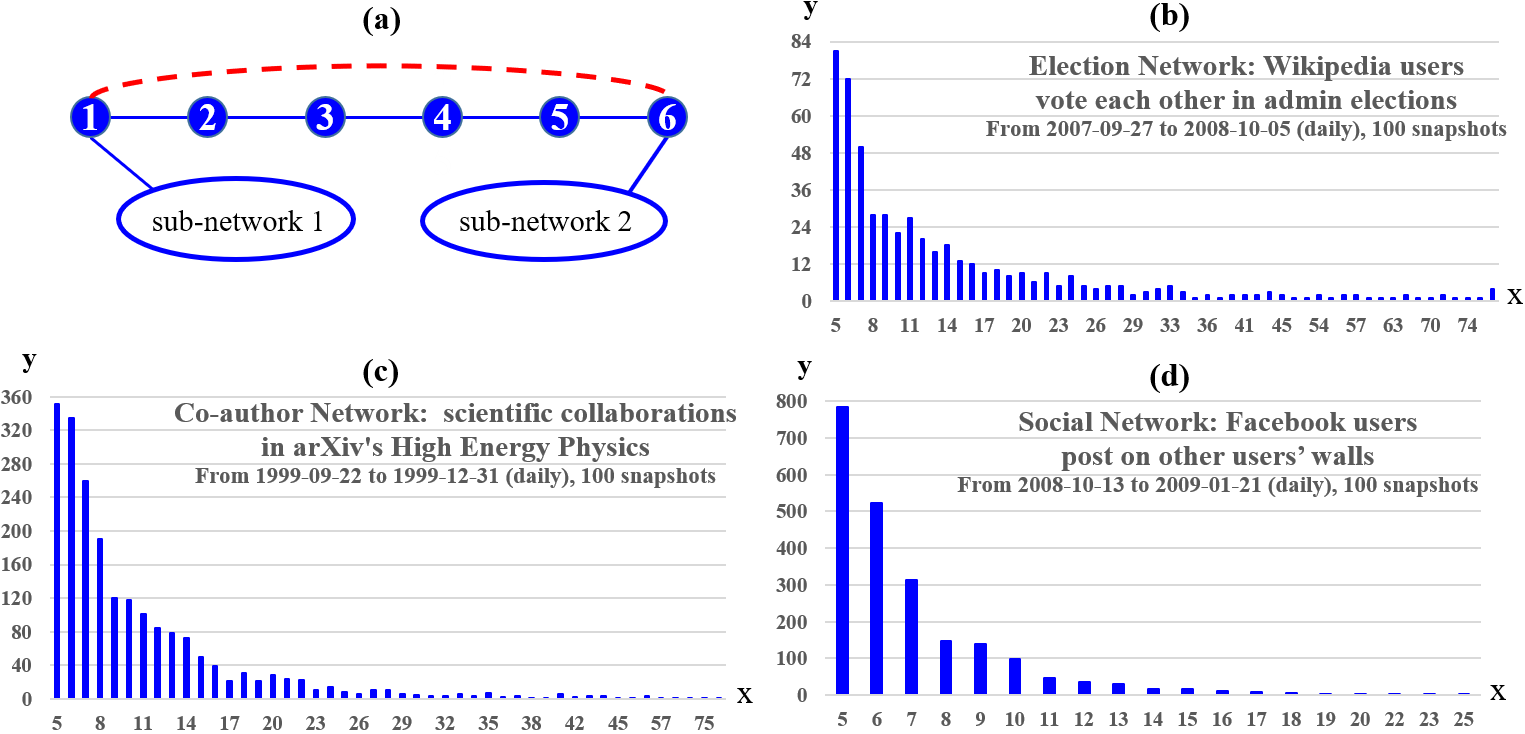
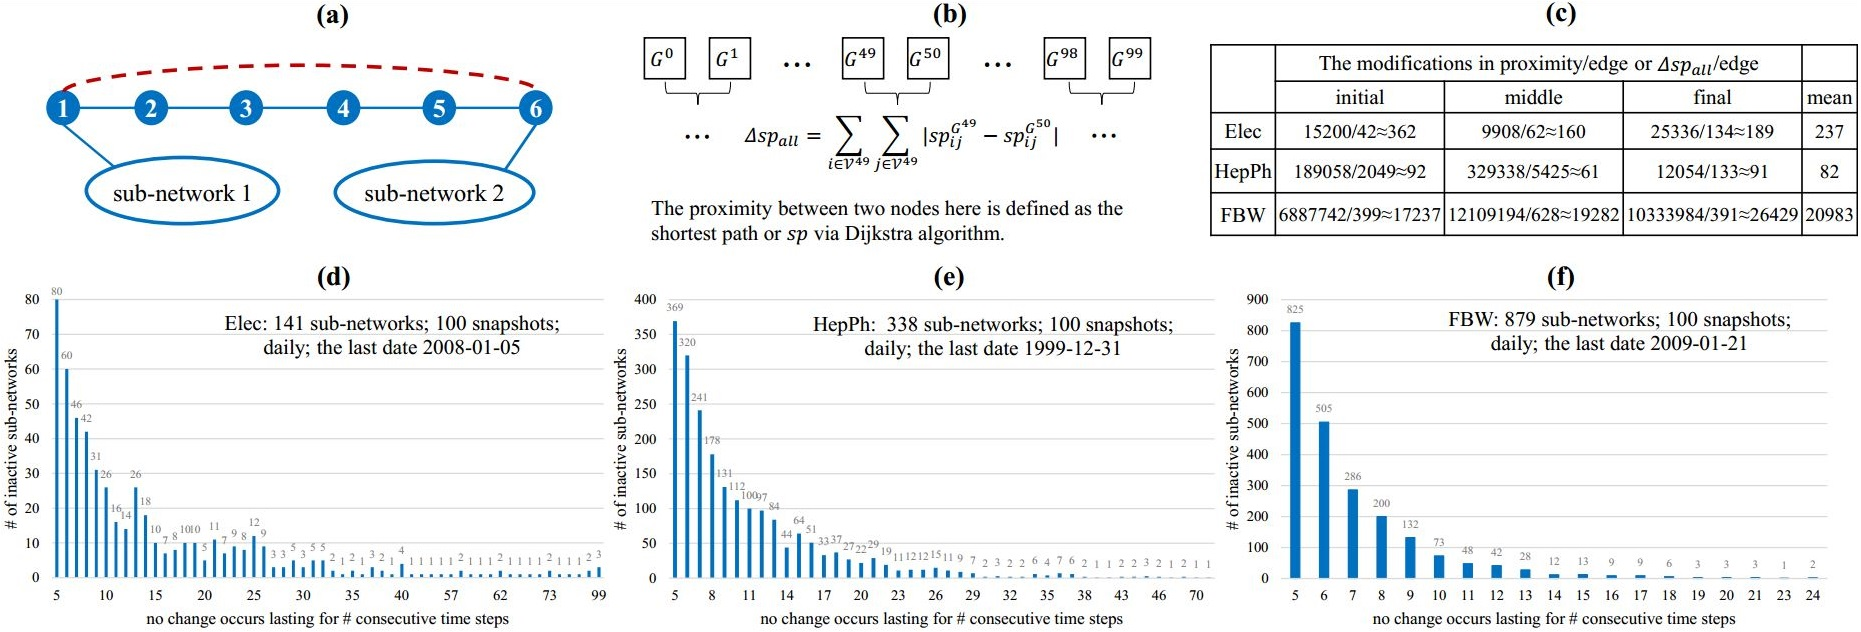
update description

diff --git a/README.md b/README.md
@@ -1,14 +1,14 @@
 # GloDyNE
 The aim of this work is to propose an efficient **dynamic network embedding** method for **better global topology preservation** of a dynamic network at each time step. Unlike all previous works that mainly consider the most affected regions of a network, the idea of this work, motivated by divide and conquer, is to partition a network into smaller sub-networks such that we can **diversely** consider the topological changes over a network. <br>
-The motivation of this work is that most real-world networks have some **inactivate regions/sub-networks** which would receive accumulated topological changes propagated via the high-order proximity. See the figure below for illustration. Therefore, in order to better preserve the global topology, we also need to consider the accumulated topological changes in the inactivate regions/sub-networks. However, previous works did not consider this issue.
+The motivation of this work is that any changes, i.e., edges being added or deleted, would affect all nodes in a connected network and greatly modify the proximity between nodes over a network via the high-order proximity as illustrated in Figure Fig a-c). On the other hand, as observed in Figure Fig1 d-f), the real-world dynamic networks usually have some inactive sub-networks where no change occurs lasting for several time steps. Putting both together, the existing DNE methods that focus on the most affected nodes (belonging to the active sub-networks) but do not consider the inactive sub-networks, would overlook the accumulated topological changes propagating to the inactive sub-networks via the high-order proximity. However, previous works did not consider this issue.
 
 <center>
-    <img src="https://github.com/houchengbin/GloDyNE/blob/master/data/Fig1.jpg" width="666"/>
+    <img src="https://github.com/houchengbin/GloDyNE/blob/master/data/Fig1.jpg" width="800"/>
 </center>
 
-Fig. a) A change (new edge in red) affects all nodes in the connected network via high-order proximity. The proximity of nodes 1-6 becomes $1^{st}$ order from $5^{th}$ order, nodes 2-6 becomes $2^{nd}$ order from $4^{th}$ order, etc. Besides, the proximity of any node in sub-network 1 to any node in sub-network 2 is reduced by 5 orders. b-d) The real-world dynamic networks have some inactive sub-networks (e.g., defined as no change occurs lasting for at least 5 time steps). The x-axis indicates the number of consecutive time steps that no change occurs in a sub-network. The y-axis gives the counts of each case in x-axis. The sub-networks, in average 50 nodes per sub-network, are obtained by applying METIS algorithm [Karypis and Kumar 1998] on the largest snapshot of a dynamic network. The details of the three dynamic networks are described in Section 5.
+Fig. a) A change (new edge in red) affects all nodes in the connected network via high-order proximity. The proximity of nodes 1-6 becomes $1^{st}$ order from $5^{th}$ order, nodes 2-6 becomes $2^{nd}$ order from $4^{th}$ order, etc. The proximity of any node in sub-network 1 to any node in sub-network 2 is reduced by 5 orders. b-c) How to calculate the modifications of the proximity between two snapshots, and the results show the modifications caused by a single edge can be very large in the real-world dynamic networks. d-f) The real-world dynamic networks have some inactive sub-networks, e.g., defined as no change occurs lasting for at least 5 time steps. The sub-networks, each of which has about 50 nodes, are obtained by applying METIS algorithm [Karypis and Kumar 1998] on the largest snapshot of a dynamic network. The details of the three dynamic networks are described in Section 5.1.1.
 
-Please refer to our preprint at https://arxiv.org/abs/2008.01935 for further details. If you find this work is useful, please use the following citation.
+Please refer to our preprint at https://arxiv.org/abs/2008.01935v2 for further details. If you find this work is useful, please use the following citation.
 ```
 @article{hou2020glodyne,
     title={GloDyNE: Global Topology Preserving Dynamic Network Embedding},
@@ -17,7 +17,7 @@ Please refer to our preprint at https://arxiv.org/abs/2008.01935 for further det
     year={2020}
 }
 ```
-Currently, we are preparing the revision for the second-round review to a journal based on the positive feedback.
+Currently, we have submitted our revision for the second-round review to a journal based on the positive feedback.
 
 ## Requirement
 ```bash
